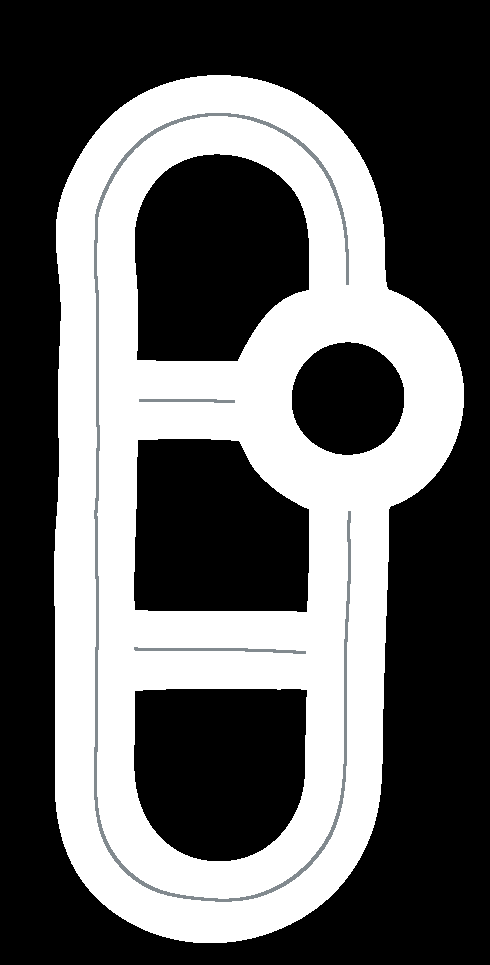
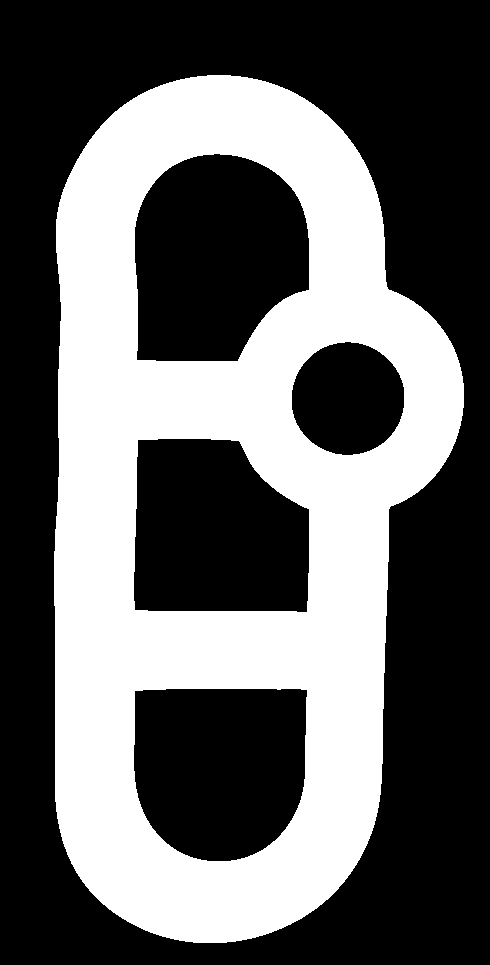
small bug fix, bigger obstacles, new map

diff --git a/scripts/ref_path.py b/scripts/ref_path.py
@@ -43,7 +43,7 @@ class RefPath:
         start_point = getClosestToVehicle(self.graph, vehicle_state)
         if not start_point:
             print "== ERROR: The vehicle is too far away from a valid path"
-            return []
+            return [], []
 
         self.path = []
         self.indexes = []

diff --git a/scripts/map_func.py b/scripts/map_func.py
@@ -31,7 +31,7 @@ class Obstacle:
 OBSTACLES = [
         Obstacle(178, 375, 20, 31, 2),
         Obstacle(202, 436, 14, 22, 2),
-        Obstacle(147, 686, 40, 28, 1),
+        Obstacle(147, 686, 100, 100, 1),
         Obstacle(288, 844, 40, 35, 3)
     ]
 
